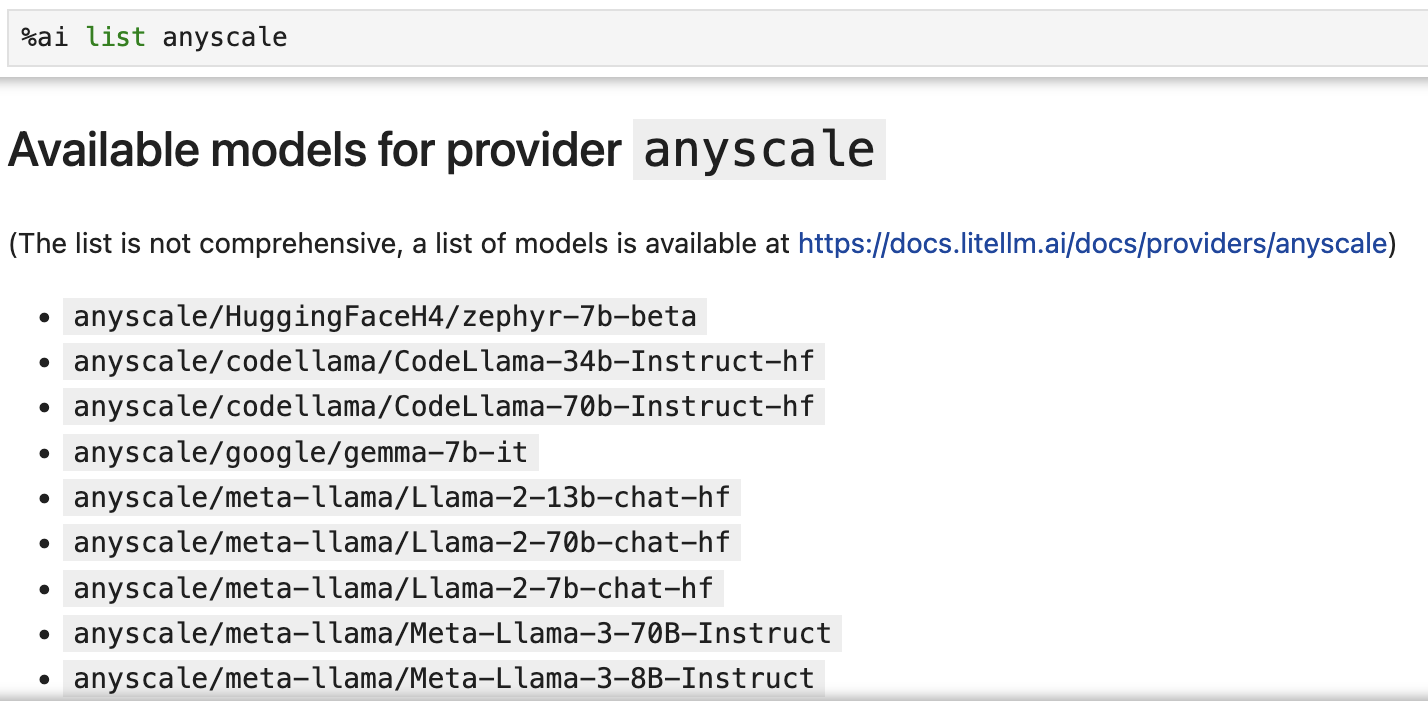
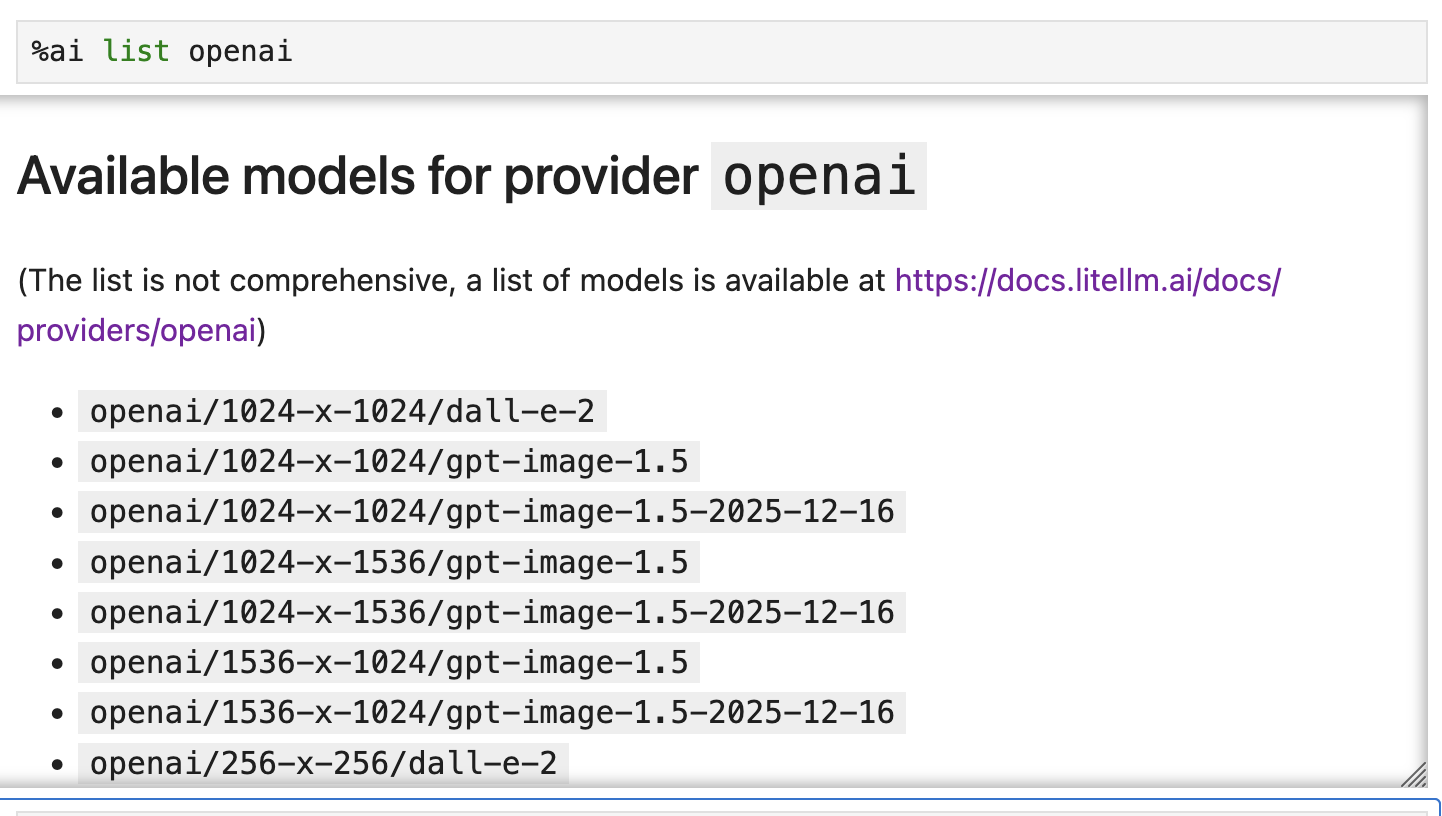
Updated the docs for magics (#1628)
1. Fixed the "list all providers" section (index.md:69) — restored the %ai list command mention in the sentence and moved the magics-list.png screenshot to sit directly under it (previously it was misplaced under the "Choosing a provider and model" heading).

2. Updated global model ID syntax (index.md:80) — changed the separator from <provider-id>:<local-model-id> to <provider-id>/<local-model-id>.

3. Added a new "Using a persona with magics" section (index.md:120-129) — documents invoking a persona (agent) by name instead of a model ID, with the new magics-example-personas.png screenshot and a note that the persona must be installed and active.

Changed region(s): [[0.0, 0.0308, 1.0, 1.0], [0.0, 0.1849, 0.6471, 0.2465]]

diff --git a/docs/source/users/magic_commands/index.md b/docs/source/users/magic_commands/index.md
@@ -65,17 +65,20 @@ list of models, for example. To get help:
 Optionally, you can specify a provider ID as a positional argument to `%ai list`
 to get all models provided by one provider. For example, `%ai list openai` will
 display only models provided by the `openai` provider.
-To see all the available providers run (the top of the list is shown):
 
-### Choosing a provider and model
-
-The `%%ai` cell magic allows you to invoke a language model of your choice with
-a given prompt. The model is identified with a **global model ID**, which is a string with the syntax `<provider-id>:<local-model-id>`, where `<provider-id>` is the ID of the provider and `<local-model-id>` is the ID of the model scoped to that provider.
+To see all the available providers run `%ai list` (the top of the list is shown):
 
 <img src="../../_static/magics-list.png"
     alt='Screenshot of magics list of all providers.'
     width="75%"
     class="screenshot" />
+
+
+### Choosing a provider and model
+
+The `%%ai` cell magic allows you to invoke a language model of your choice with
+a given prompt. The model is identified with a **global model ID**, which is a string with the syntax `<provider-id>/<local-model-id>`, where `<provider-id>` is the ID of the provider and `<local-model-id>` is the ID of the model scoped to that provider.
+
 
 To see all the models for a given provider:
 
@@ -112,6 +115,18 @@ Another example using a different provider:
     alt='Screenshot of magics example.'
     width="75%"
     class="screenshot" />
+
+
+### Using a persona with magics
+
+The magics extend to using a persona instead of a model. To use a persona (i.e., agent), specify the persona name instead of the model ID. This is shown below for the Claude and OpenCode personas. 
+
+<img src="../../_static/magics-example-personas.png"
+    alt='Screenshot of magics example.'
+    width="75%"
+    class="screenshot" />
+
+Make sure that the persona is installed and active before using it with magics.
 
 ### Configuring a default model
 
